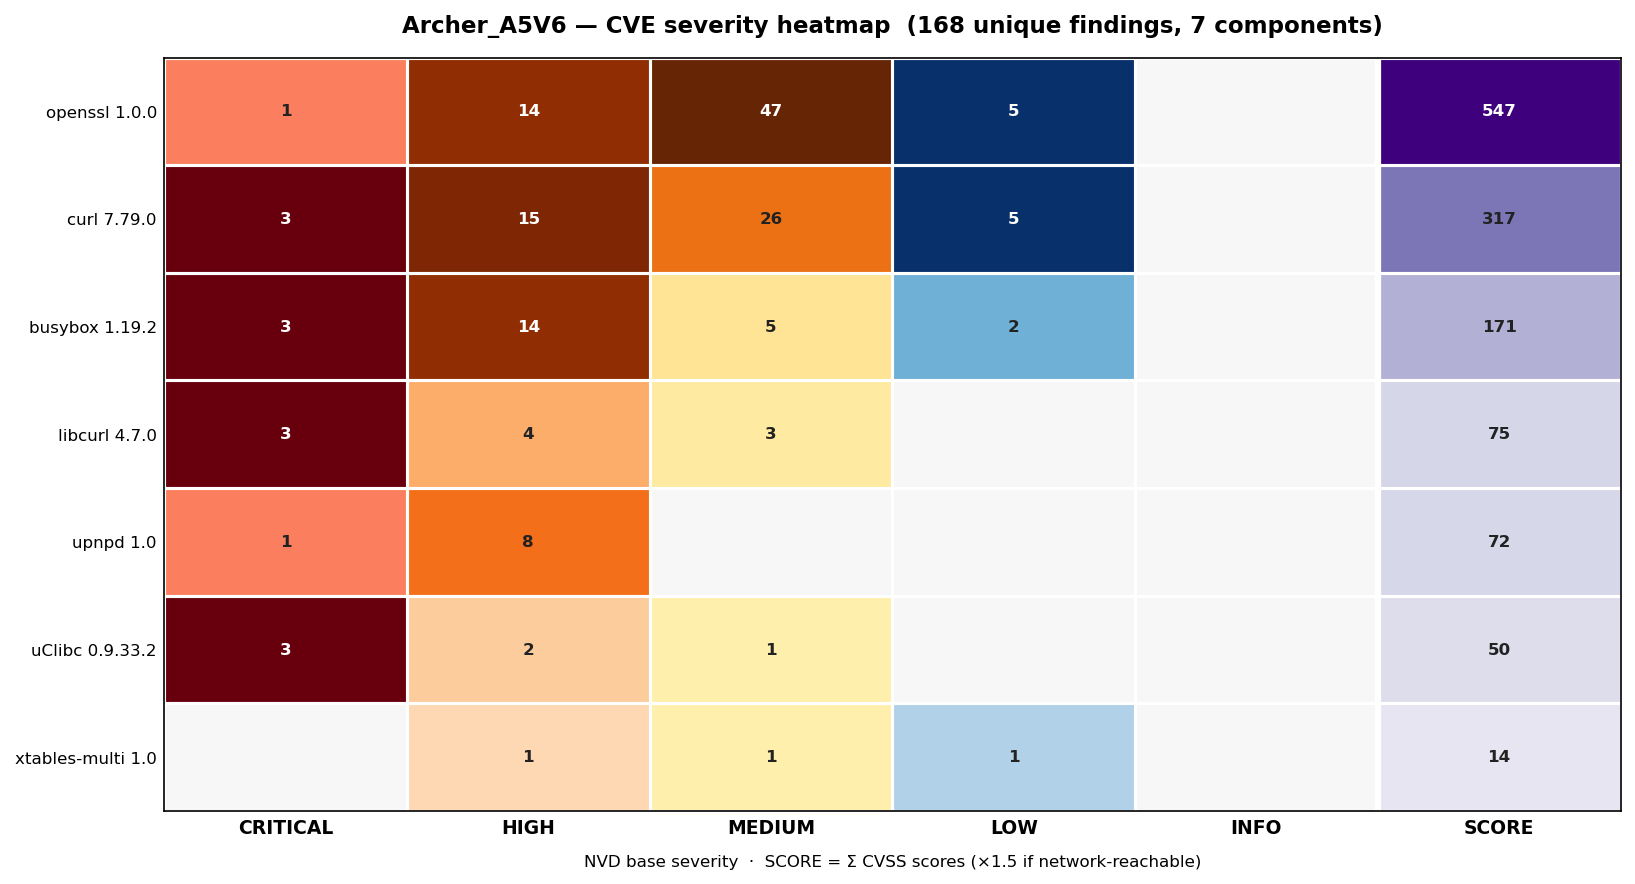
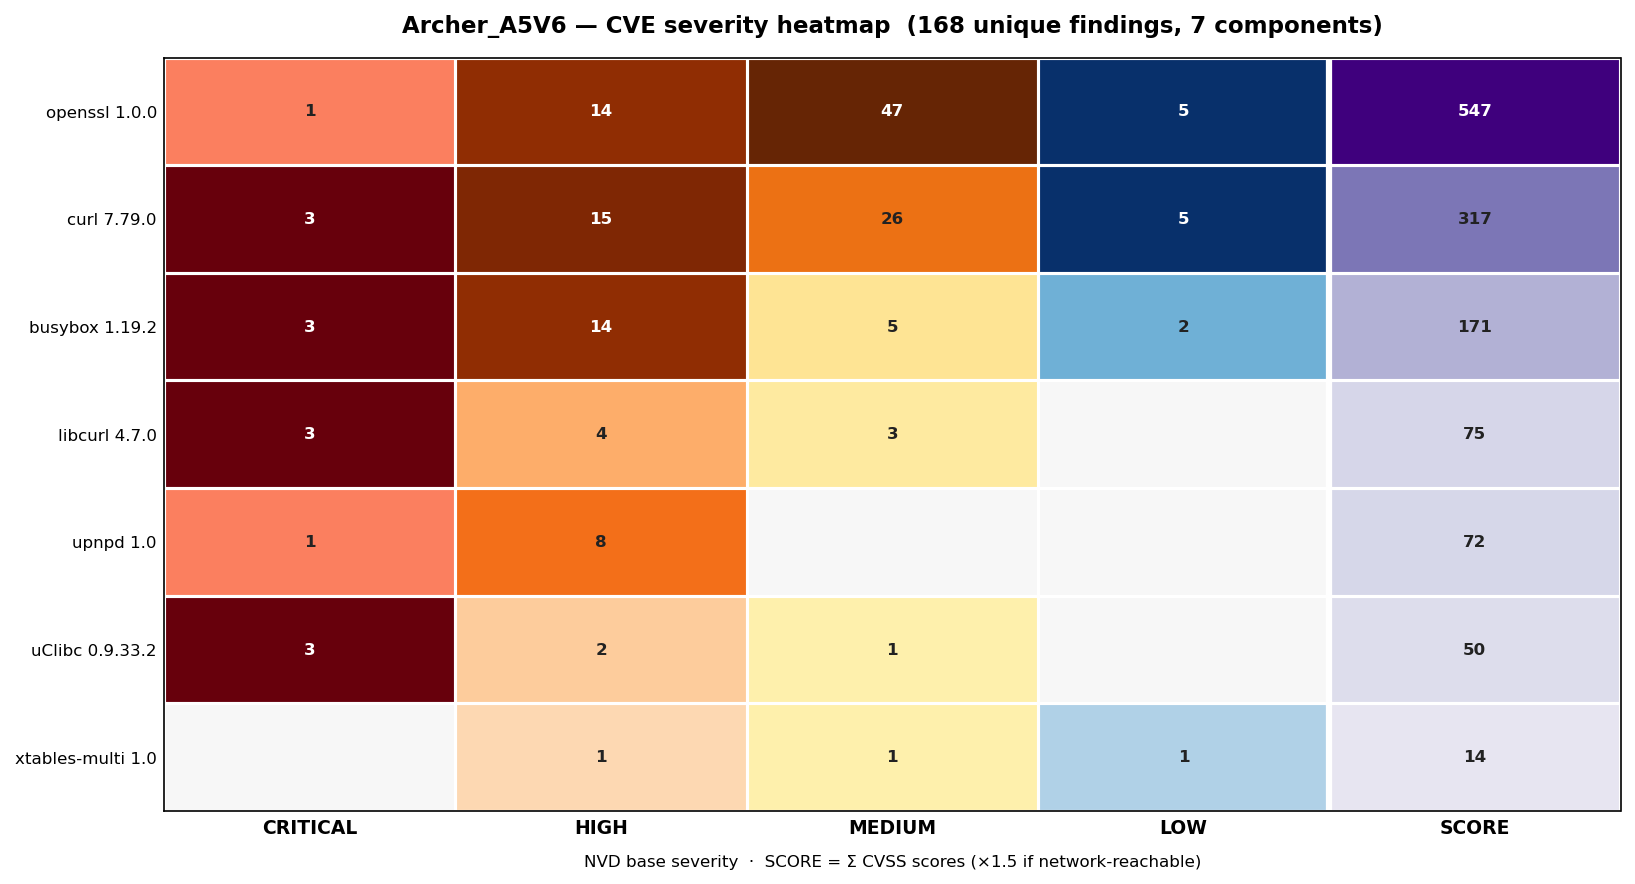
Drop empty severity columns from heatmap
Skip any column where every component has a count of zero rather
than rendering a blank INFO column. Columns are now data-driven.

diff --git a/firmware_analysis/reporting/heatmap.py b/firmware_analysis/reporting/heatmap.py
@@ -113,23 +113,25 @@ def _build_matrix(
     components = sorted(cve_data, key=lambda c: (-score(c), c))[:top]
     scores     = [round(score(c), 1) for c in components]
 
+    active_sevs = [s for s in _SEVERITIES if any(counts[c].get(s, 0) > 0 for c in components)]
     matrix = np.array(
-        [[counts[comp].get(sev, 0) for sev in _SEVERITIES] for comp in components],
+        [[counts[comp].get(sev, 0) for sev in active_sevs] for comp in components],
         dtype=float,
     )
-    return components, matrix, scores
+    return components, matrix, scores, active_sevs
 
 
 def _draw(
     components: list[str],
     matrix: np.ndarray,
-    scores: list[int],
+    scores: list[float],
+    active_sevs: list[str],
     firmware_id: str,
     out_path: Path,
 ) -> None:
     n_rows, n_sev_cols = matrix.shape
-    all_cols   = _SEVERITIES + ["score"]
-    col_labels = [s.upper() for s in _SEVERITIES] + ["SCORE"]
+    all_cols   = active_sevs + ["score"]
+    col_labels = [s.upper() for s in active_sevs] + ["SCORE"]
     n_cols     = len(all_cols)
 
     score_col = np.array(scores, dtype=float).reshape(-1, 1)
@@ -220,10 +222,10 @@ def main() -> None:
         print("[!] No vulnerabilities in report — nothing to plot.")
         sys.exit(0)
 
-    components, matrix, scores = _build_matrix(vulns, args.top)
+    components, matrix, scores, active_sevs = _build_matrix(vulns, args.top)
 
     out_path = args.output or analysis_dir / "sbom" / "cve_heatmap.png"
-    _draw(components, matrix, scores, firmware_id, out_path)
+    _draw(components, matrix, scores, active_sevs, firmware_id, out_path)
 
     print(f"[+] Heatmap written → {out_path}")
     print(f"    {len(components)} components × {len(_SEVERITIES)} severity levels  "
